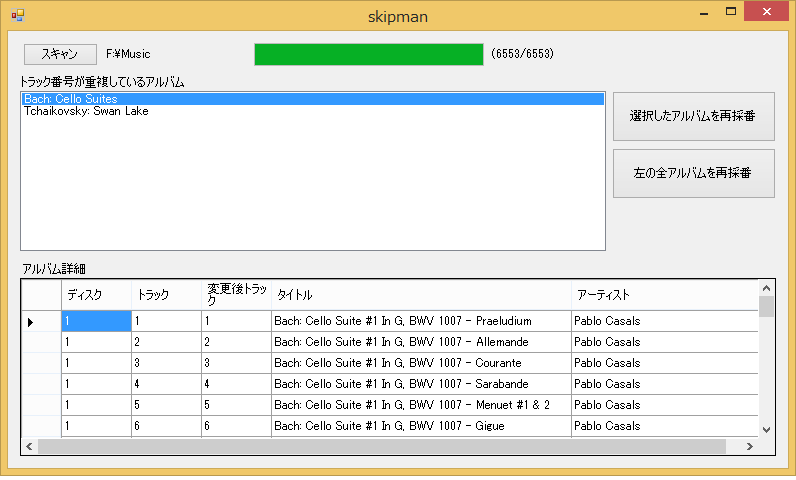
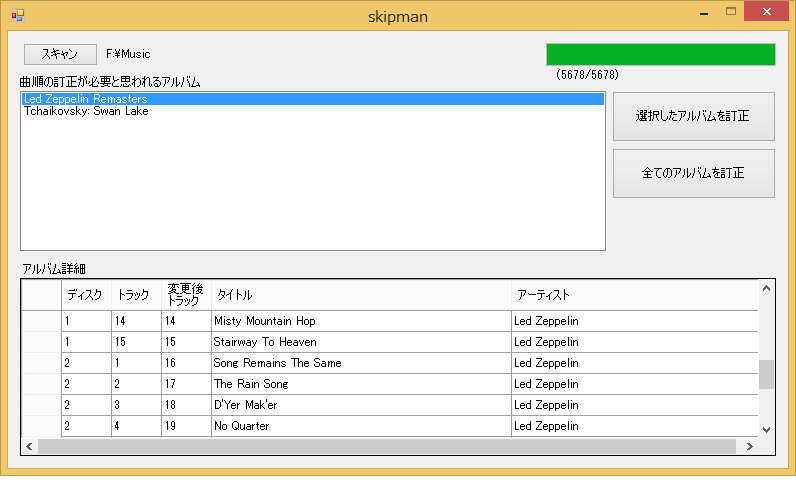
change ui design.

diff --git a/skipman/Form1.Designer.cs b/skipman/Form1.Designer.cs
@@ -36,13 +36,13 @@
             this.label2 = new System.Windows.Forms.Label();
             this.label3 = new System.Windows.Forms.Label();
             this.dataGridViewDetail = new System.Windows.Forms.DataGridView();
+            this.progressBarScan = new System.Windows.Forms.ProgressBar();
+            this.labelProgress = new System.Windows.Forms.Label();
             this.Disc = new System.Windows.Forms.DataGridViewTextBoxColumn();
             this.Track = new System.Windows.Forms.DataGridViewTextBoxColumn();
             this.NewTrack = new System.Windows.Forms.DataGridViewTextBoxColumn();
             this.Title = new System.Windows.Forms.DataGridViewTextBoxColumn();
             this.Artist = new System.Windows.Forms.DataGridViewTextBoxColumn();
-            this.progressBarScan = new System.Windows.Forms.ProgressBar();
-            this.labelProgress = new System.Windows.Forms.Label();
             ((System.ComponentModel.ISupportInitialize)(this.dataGridViewDetail)).BeginInit();
             this.SuspendLayout();
             // 
@@ -52,7 +52,7 @@
             this.buttonSelect.Name = "buttonSelect";
             this.buttonSelect.Size = new System.Drawing.Size(164, 51);
             this.buttonSelect.TabIndex = 0;
-            this.buttonSelect.Text = "選択したアルバムを再採番";
+            this.buttonSelect.Text = "選択したアルバムを訂正";
             this.buttonSelect.UseVisualStyleBackColor = true;
             this.buttonSelect.Click += new System.EventHandler(this.buttonSelect_Click);
             // 
@@ -91,7 +91,7 @@
             this.buttonAll.Name = "buttonAll";
             this.buttonAll.Size = new System.Drawing.Size(164, 51);
             this.buttonAll.TabIndex = 7;
-            this.buttonAll.Text = "左の全アルバムを再採番";
+            this.buttonAll.Text = "全てのアルバムを訂正";
             this.buttonAll.UseVisualStyleBackColor = true;
             this.buttonAll.Click += new System.EventHandler(this.buttonAll_Click);
             // 
@@ -100,9 +100,9 @@
             this.label2.AutoSize = true;
             this.label2.Location = new System.Drawing.Point(10, 45);
             this.label2.Name = "label2";
-            this.label2.Size = new System.Drawing.Size(170, 12);
+            this.label2.Size = new System.Drawing.Size(186, 12);
             this.label2.TabIndex = 8;
-            this.label2.Text = "トラック番号が重複しているアルバム";
+            this.label2.Text = "曲順の訂正が必要と思われるアルバム";
             // 
             // label3
             // 
@@ -135,13 +135,30 @@
             this.dataGridViewDetail.TabIndex = 10;
             this.dataGridViewDetail.TabStop = false;
             // 
+            // progressBarScan
+            // 
+            this.progressBarScan.Location = new System.Drawing.Point(538, 12);
+            this.progressBarScan.Name = "progressBarScan";
+            this.progressBarScan.Size = new System.Drawing.Size(230, 23);
+            this.progressBarScan.Style = System.Windows.Forms.ProgressBarStyle.Continuous;
+            this.progressBarScan.TabIndex = 11;
+            // 
+            // labelProgress
+            // 
+            this.labelProgress.AutoSize = true;
+            this.labelProgress.Location = new System.Drawing.Point(547, 38);
+            this.labelProgress.Name = "labelProgress";
+            this.labelProgress.Size = new System.Drawing.Size(17, 12);
+            this.labelProgress.TabIndex = 12;
+            this.labelProgress.Text = "   ";
+            // 
             // Disc
             // 
             this.Disc.HeaderText = "ディスク";
             this.Disc.Name = "Disc";
             this.Disc.ReadOnly = true;
             this.Disc.SortMode = System.Windows.Forms.DataGridViewColumnSortMode.NotSortable;
-            this.Disc.Width = 70;
+            this.Disc.Width = 50;
             // 
             // Track
             // 
@@ -149,7 +166,7 @@
             this.Track.Name = "Track";
             this.Track.ReadOnly = true;
             this.Track.SortMode = System.Windows.Forms.DataGridViewColumnSortMode.NotSortable;
-            this.Track.Width = 70;
+            this.Track.Width = 50;
             // 
             // NewTrack
             // 
@@ -157,7 +174,7 @@
             this.NewTrack.Name = "NewTrack";
             this.NewTrack.ReadOnly = true;
             this.NewTrack.SortMode = System.Windows.Forms.DataGridViewColumnSortMode.NotSortable;
-            this.NewTrack.Width = 70;
+            this.NewTrack.Width = 50;
             // 
             // Title
             // 
@@ -173,24 +190,7 @@
             this.Artist.Name = "Artist";
             this.Artist.ReadOnly = true;
             this.Artist.SortMode = System.Windows.Forms.DataGridViewColumnSortMode.NotSortable;
-            this.Artist.Width = 200;
-            // 
-            // progressBarScan
-            // 
-            this.progressBarScan.Location = new System.Drawing.Point(246, 12);
-            this.progressBarScan.Name = "progressBarScan";
-            this.progressBarScan.Size = new System.Drawing.Size(230, 23);
-            this.progressBarScan.Style = System.Windows.Forms.ProgressBarStyle.Continuous;
-            this.progressBarScan.TabIndex = 11;
-            // 
-            // labelProgress
-            // 
-            this.labelProgress.AutoSize = true;
-            this.labelProgress.Location = new System.Drawing.Point(482, 17);
-            this.labelProgress.Name = "labelProgress";
-            this.labelProgress.Size = new System.Drawing.Size(17, 12);
-            this.labelProgress.TabIndex = 12;
-            this.labelProgress.Text = "   ";
+            this.Artist.Width = 250;
             // 
             // Form1
             // 
